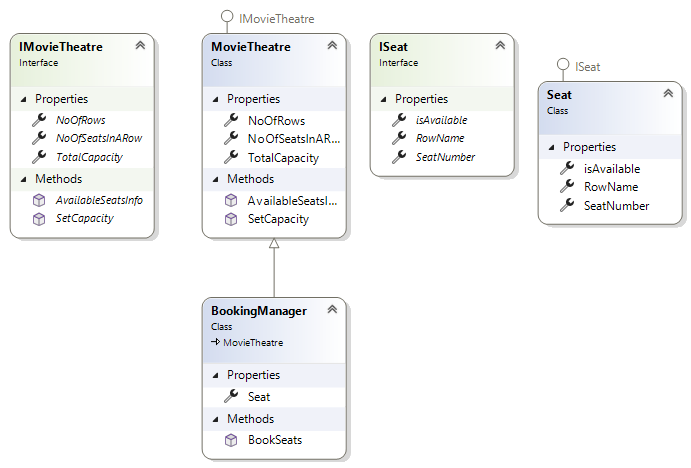
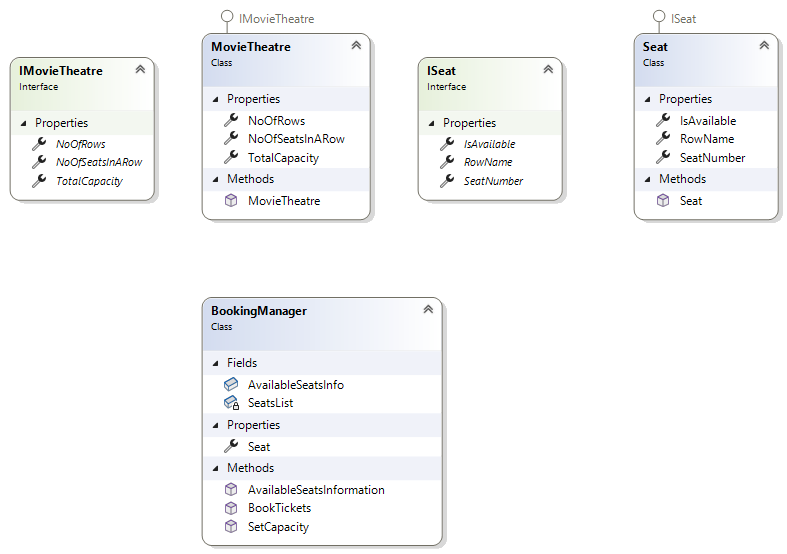
Added Code to book the tickets based on random number generation.

Changed region(s): [[0.0, 0.0, 1.0, 1.0]]

diff --git a/CinnamonCinemasSeatBooking/Models/BookingManager.cs b/CinnamonCinemasSeatBooking/Models/BookingManager.cs
@@ -1,4 +1,5 @@
 using System;
+using System.Collections;
 using System.Collections.Generic;
 using System.Linq;
 using System.Text;
@@ -6,13 +7,120 @@ using System.Threading.Tasks;
 
 namespace CinnamonCinemasSeatBooking.Models
 {
-    public class BookingManager : MovieTheatre
+    public class BookingManager
     {
-        public Seat Seat { get; set; }
+        public Seat? Seat { get; set; }
 
-        public bool BookSeats(int NoOfSeats)
+        List<Seat> SeatsList = new List<Seat>();
+        public static Hashtable AvailableSeatsInfo = new Hashtable();
+
+        public void SetCapacity(int NoOfRows, int NoOfSeatsInaRow)
         {
+            char maxRowName = Convert.ToChar(65 + NoOfRows);
+            string SeatNumber = "";
+
+            for (var c = 'A'; c < maxRowName; c++)
+            {
+                for (var sCount = 1; sCount <= NoOfSeatsInaRow; sCount++)
+                {
+                    SeatNumber = c.ToString() + sCount.ToString();
+                    SeatsList.Add(new Seat(true, c, SeatNumber));
+                }
+            }
+        }
+
+
+
+        /*public bool BookSeats(int NoOfSeats, Hashtable AvailableSeats)
+        {
+            Console.WriteLine(" Inside Book Seats: HASHTABLE OUTPUT");
+            foreach (string Key in AvailableSeats.Keys)
+                Console.WriteLine(String.Format("{0} : {1}", Key, AvailableSeats[Key]));
+            return true;
+        }*/
+
+        public void AvailableSeatsInformation()
+        {
+            string seatsInfo = "";
+            var getAvailableSeats = SeatsList
+                                    .Where(seat => seat.IsAvailable == true)
+                                    .OrderBy(seat => seat.RowName)
+                                    .GroupBy(seat => seat.RowName);
+
+            foreach (var s in getAvailableSeats)
+            {
+                seatsInfo = "";
+                //Console.WriteLine($"Row Name: {s.Key}");
+                foreach (var seat in s)
+                {
+                    //Console.WriteLine($"\t Hello, my name is {seat.SeatNumber}");
+                    seatsInfo += seat.SeatNumber + "/";
+                }
+                seatsInfo = seatsInfo.Substring(0, seatsInfo.Length - 1);
+                //Console.WriteLine($"SeatInfo  {seatsInfo}");
+                if (AvailableSeatsInfo.ContainsKey(s.Key.ToString()))
+                    AvailableSeatsInfo[s.Key.ToString()] = seatsInfo;
+                else
+                    AvailableSeatsInfo.Add(s.Key.ToString(), seatsInfo);
+            }
+        }
+
+        public bool BookTickets(int NoOfTickets)
+        {
+            Console.WriteLine($"NoOfTickets:  {NoOfTickets}");
+            string? SeatNames = "";
+            for (var c = 'A'; c <= 'C'; c++)
+            {
+                if (AvailableSeatsInfo.Count > 0)
+                {
+                    if (AvailableSeatsInfo.ContainsKey(c.ToString()))
+                    {
+                        SeatNames = AvailableSeatsInfo[c.ToString()]!.ToString();
+                        String[] SeatList = SeatNames!.Split("/");
+                        //Console.WriteLine($"SeatList.Count():  {SeatList.Count()}");
+                        if (SeatList.Count() > NoOfTickets)
+                        {
+                            for (int i = 0; i < NoOfTickets; i++)
+                            {
+                                var snumber = SeatList[i];
+                                Console.WriteLine($"Allocated SeatNumber:  {snumber}");
+                                var updateSeat = SeatsList
+                                                 .First(seat => seat.SeatNumber == snumber);
+                                updateSeat.IsAvailable = false;
+                            }
+                            AvailableSeatsInformation();
+                            return true;
+                        }
+                        else if (SeatList.Count() <= NoOfTickets)
+                        {
+                            for (int i = 0; i < SeatList.Count(); i++)
+                            {
+                                var snumber = SeatList[i];
+                                Console.WriteLine($"Allocated SeatNumber:  {snumber}");
+                                var updateSeat = SeatsList
+                                                 .First(seat => seat.SeatNumber == snumber);
+                                updateSeat.IsAvailable = false;
+                            }
+                            AvailableSeatsInfo.Remove(c.ToString());
+                            AvailableSeatsInformation();
+                            NoOfTickets -= SeatList.Count();
+                            continue;
+                        }
+                        /*else
+                        {
+                            Console.WriteLine("No Seats Available");
+                            return false;
+                        }*/
+                    }
+                }
+                else
+                {
+                    Console.WriteLine("Theatre is full. No Seats Available. Cannot book Tickets.");
+                    return false;
+                }
+            }
             return true;
         }
+
     }
 }

diff --git a/CinnamonCinemasSeatBooking/Models/MovieTheatre.cs b/CinnamonCinemasSeatBooking/Models/MovieTheatre.cs
@@ -1,4 +1,5 @@
 using System;
+using System.Collections;
 using System.Collections.Generic;
 using System.Linq;
 using System.Text;
@@ -8,19 +9,14 @@ namespace CinnamonCinemasSeatBooking.Models
 {
     public class MovieTheatre : IMovieTheatre
     {
-        public int NoOfRows { get;  set; }
-        public int NoOfSeatsInARow { get;  set; }
+        public int NoOfRows { get;  private set; }
+        public int NoOfSeatsInARow { get;  private set; }
+        public int TotalCapacity { get; private set; }
 
-        public int TotalCapacity { get; set; }
-
-        public void SetCapacity(int NoOfRows, int NoOfSeatsInaRow)
+        public MovieTheatre(int NoOfRows, int NoOfSeatsInARow)
         {
-            TotalCapacity = NoOfRows * NoOfSeatsInaRow;
+            TotalCapacity = NoOfRows * NoOfSeatsInARow;
         }
 
-        public void AvailableSeatsInfo()
-        {
-
-        }
     }
 }

diff --git a/CinnamonCinemasSeatBooking/Models/Seat.cs b/CinnamonCinemasSeatBooking/Models/Seat.cs
@@ -8,8 +8,15 @@ namespace CinnamonCinemasSeatBooking.Models
 {
     public class Seat : ISeat
     {
-        public bool isAvailable { get; protected set; }
+        public bool IsAvailable { get; set; }
         public char RowName { get; protected set; }
         public string SeatNumber { get; protected set;  }
+
+        public Seat(bool isavailable, char rowname, string seatnumber)
+        {
+            IsAvailable = isavailable;
+            RowName = rowname;
+            SeatNumber = seatnumber;
+        }
     }
 }

diff --git a/CinnamonCinemasSeatBooking/Models/IMovieTheatre.cs b/CinnamonCinemasSeatBooking/Models/IMovieTheatre.cs
@@ -1,4 +1,5 @@
 using System;
+using System.Collections;
 using System.Collections.Generic;
 using System.Linq;
 using System.Text;
@@ -10,9 +11,5 @@ namespace CinnamonCinemasSeatBooking.Models
         int NoOfRows { get; }
         int NoOfSeatsInARow { get; }
         int TotalCapacity { get; }
-
-        void SetCapacity(int NoOfRows, int NoOfSeatsInaRow);
-        void AvailableSeatsInfo(); //
-
     }
 }

diff --git a/CinnamonCinemasSeatBooking/Models/ISeat.cs b/CinnamonCinemasSeatBooking/Models/ISeat.cs
@@ -8,9 +8,8 @@ namespace CinnamonCinemasSeatBooking.Models
 {
     public interface ISeat
     {
-        bool isAvailable { get; }
+        bool IsAvailable { get; }
         char RowName { get; }
         string SeatNumber { get; }
-
     }
 }
